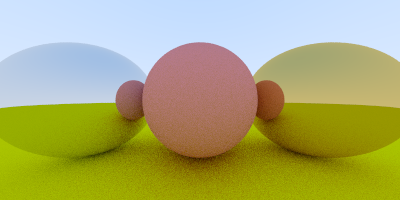
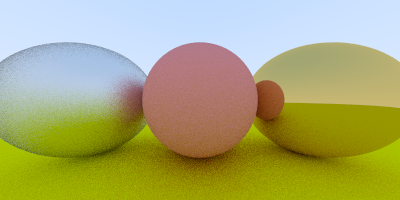
metal fuzz parameter

diff --git a/src/main.rs b/src/main.rs
@@ -62,6 +62,7 @@ impl Material for Lambertian {
 
 pub struct Metal {
     albedo: Vec3,
+    fuzz: f64,
 }
 
 impl Material for Metal {
@@ -69,7 +70,7 @@ impl Material for Metal {
         let reflected = r.direction().unit().reflect(&hit_record.normal);
         let scattered = Ray {
             a: hit_record.p,
-            b: reflected,
+            b: reflected + self.fuzz * random_in_unit_sphere(),
         };
         if scattered.direction().dot(hit_record.normal) > 0. {
             Some(Scatter {
@@ -228,6 +229,7 @@ fn main() {
                 radius: 0.5,
                 material: Box::new(Metal {
                     albedo: Vec3(0.8, 0.6, 0.2),
+                    fuzz: 0.,
                 }),
             }),
             Box::new(Sphere {
@@ -235,6 +237,7 @@ fn main() {
                 radius: 0.5,
                 material: Box::new(Metal {
                     albedo: Vec3(0.8, 0.8, 0.8),
+                    fuzz: 0.7
                 }),
             }),
         ],
